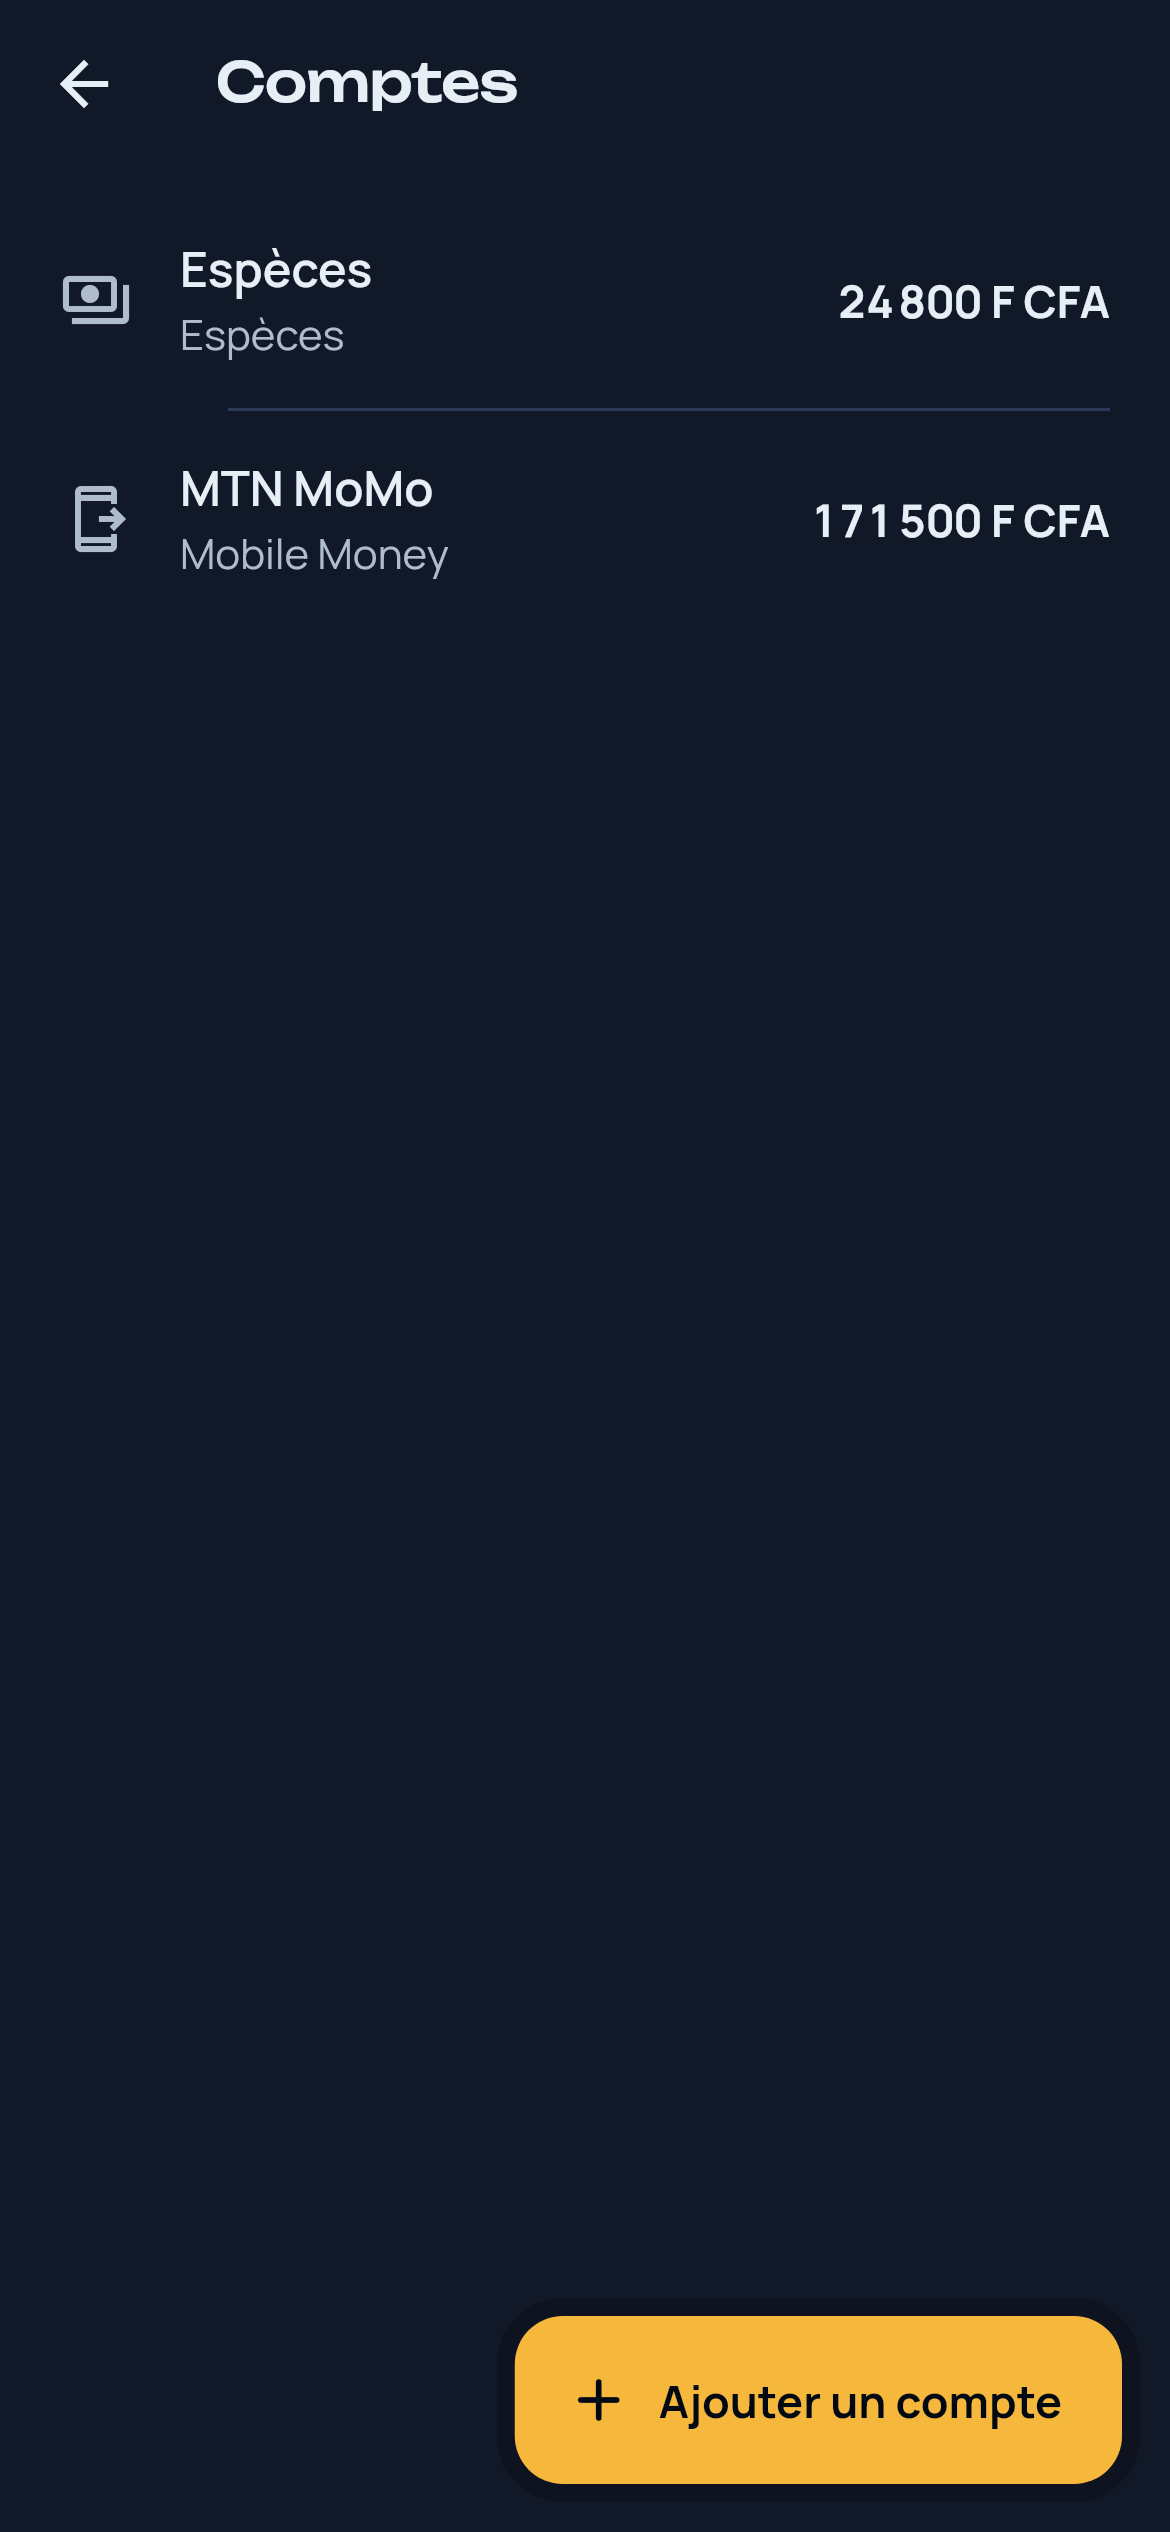
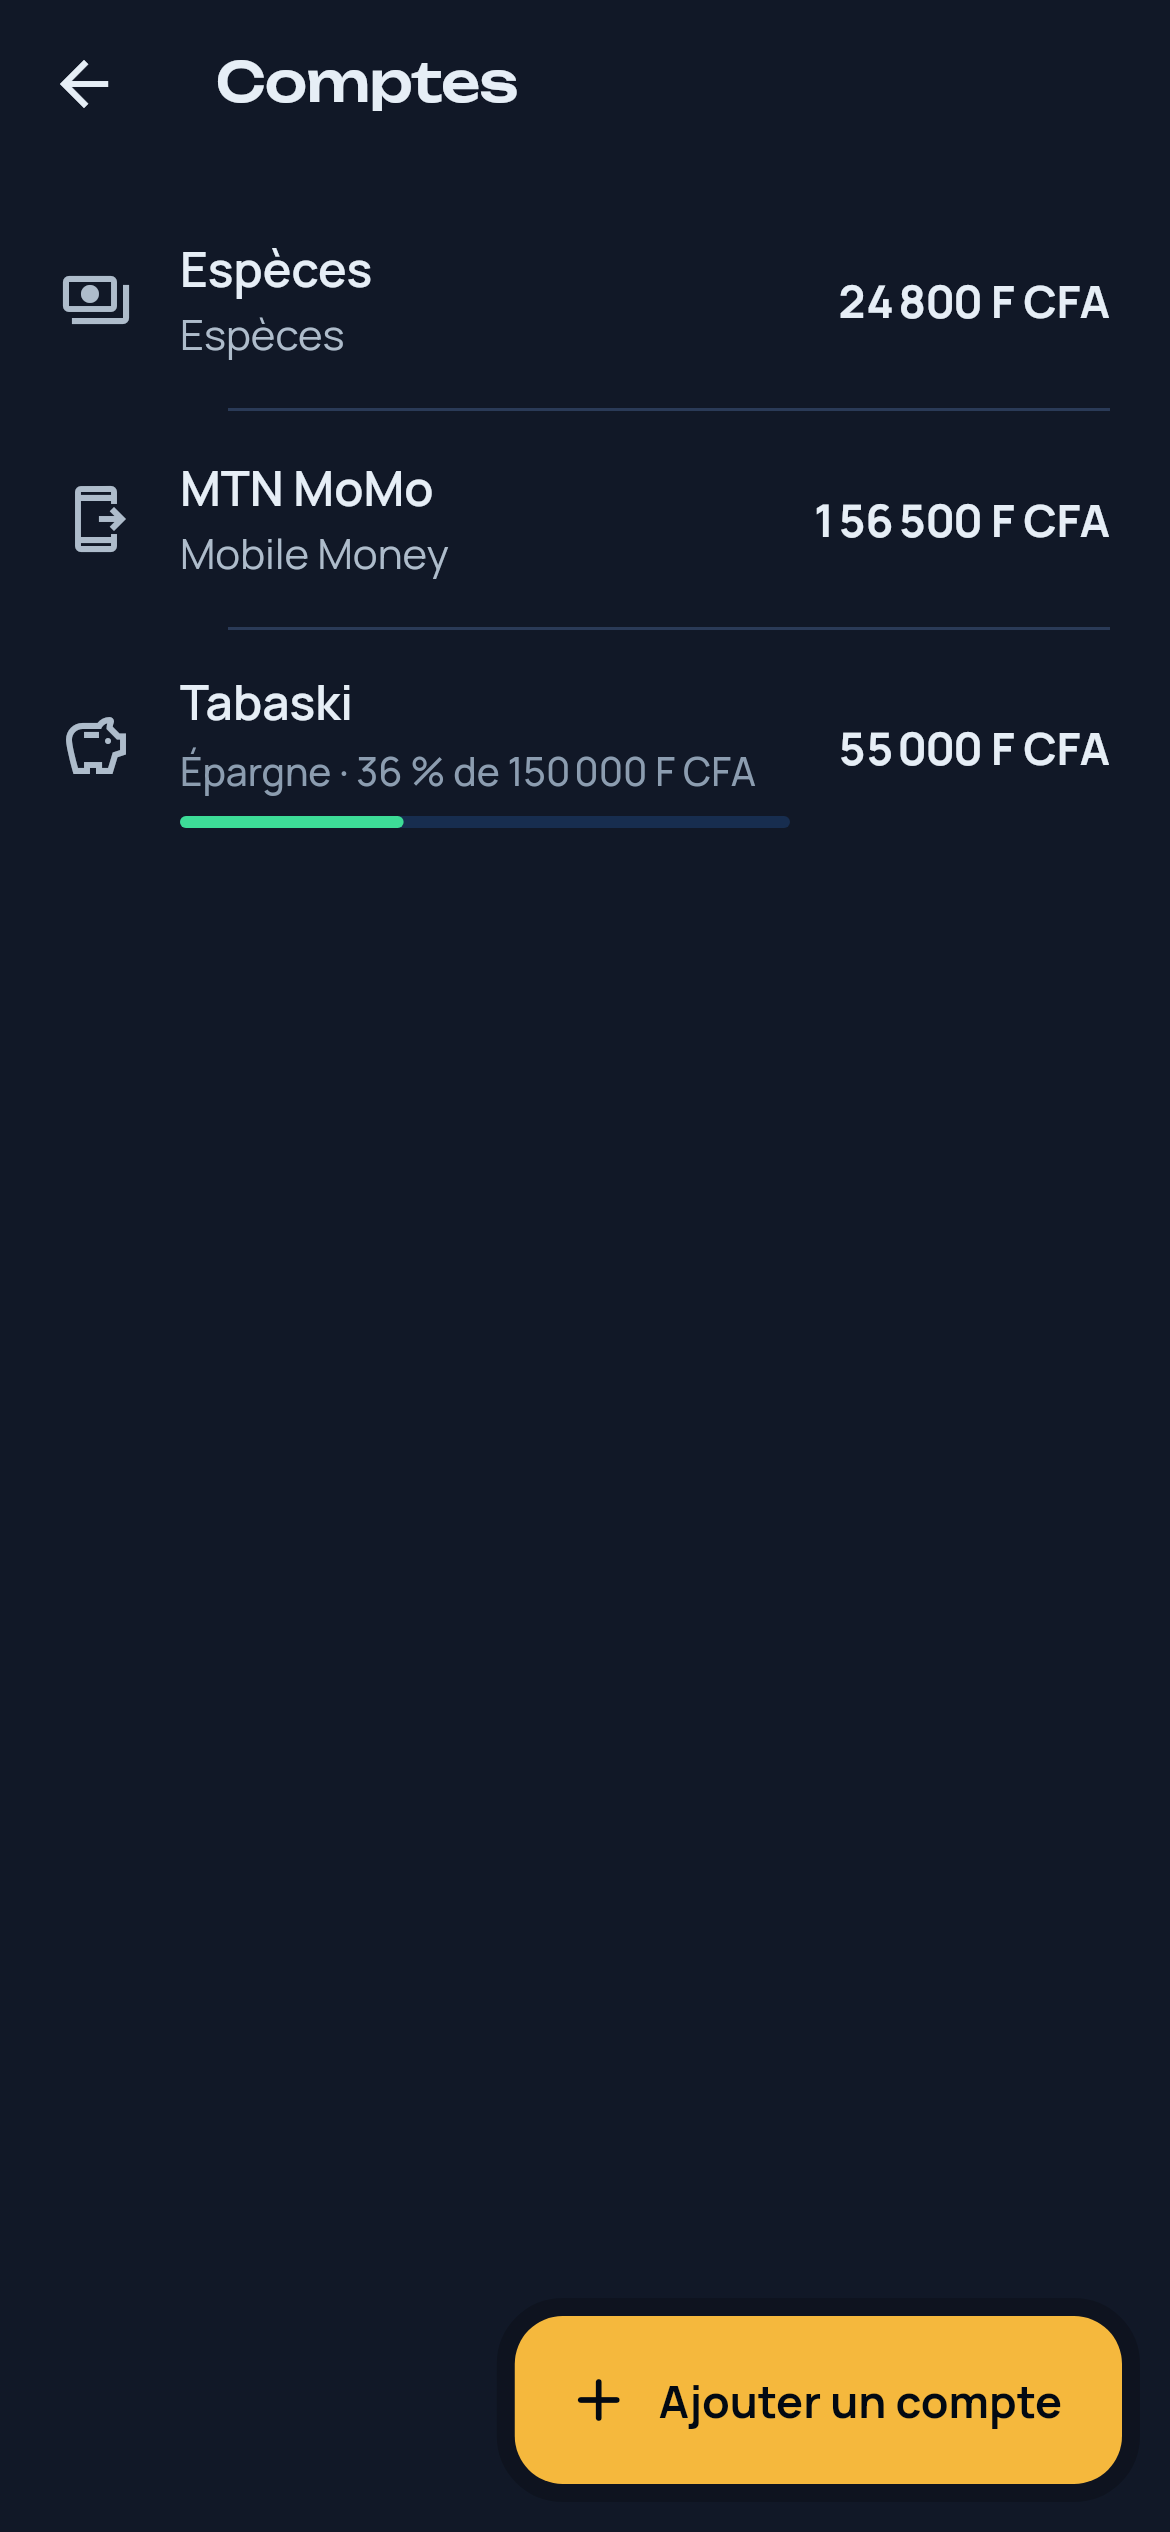
feat(epargne): objectif au formulaire et jauge dans la liste des comptes
Le champ Objectif n'apparaît que pour le type Épargne, avec le rappel
qu'on y verse par « Entre comptes ». Dans la liste, la jauge est verte
du début à la fin : s'approcher du but n'est pas une alerte, à la
différence d'un plafond. Les types passent sur deux lignes, sinon
« Épargne » restait caché hors de l'écran. Captures 09 à 11 refaites
avec une épargne dans le mois fictif de Kofi.

diff --git a/lib/features/expenses/ui/accounts_screen.dart b/lib/features/expenses/ui/accounts_screen.dart
@@ -11,6 +11,7 @@ import '../../../app/routes.dart';
 import '../../../app/theme/palier_theme.dart';
 import '../../../app/theme/palier_tokens.dart';
 import '../../../l10n/app_localizations.dart';
+import '../../profiles/domain/profile.dart';
 import '../data/expenses_repository.dart';
 import '../domain/expense_kinds.dart';
 import '../domain/expenses.dart';
@@ -49,7 +50,9 @@ class AccountsScreen extends ConsumerWidget {
                   contentPadding: EdgeInsets.zero,
                   leading: Icon(accountIcon(account.kind)),
                   title: Text(account.name),
-                  subtitle: Text(l10n.accountKindName(account.kind)),
+                  subtitle: account.goal == null
+                      ? Text(l10n.accountKindName(account.kind))
+                      : SavingsGoal(account: account, currency: currency),
                   trailing: LucidPrivateText(
                     formatBalance(account.balance, currency),
                     mask: maskedMoney(currency),
@@ -90,6 +93,7 @@ class _AccountFormScreenState extends ConsumerState<AccountFormScreen> {
   final _formKey = GlobalKey<FormState>();
   final _name = TextEditingController();
   final _opening = TextEditingController();
+  final _goal = TextEditingController();
   AccountKind _kind = AccountKind.mobileMoney;
   bool _saving = false;
   bool _filled = false;
@@ -100,6 +104,7 @@ class _AccountFormScreenState extends ConsumerState<AccountFormScreen> {
   void dispose() {
     _name.dispose();
     _opening.dispose();
+    _goal.dispose();
     super.dispose();
   }
 
@@ -111,6 +116,8 @@ class _AccountFormScreenState extends ConsumerState<AccountFormScreen> {
     _name.text = account.name;
     _kind = account.kind;
     _opening.text = account.openingBalance == 0 ? '' : formatMoney(account.openingBalance, currency, withSymbol: false);
+    final goal = account.goal;
+    _goal.text = goal == null ? '' : formatMoney(goal, currency, withSymbol: false);
   }
 
   Future<void> _save(Account? existing) async {
@@ -122,6 +129,11 @@ class _AccountFormScreenState extends ConsumerState<AccountFormScreen> {
       name: _name.text,
       kind: _kind,
       openingBalance: parseMoney(_opening.text, profile.currency)!,
+      // Champ vide : la conversion donne 0, soit « pas d'objectif ».
+      goal: switch (parseMoney(_goal.text, profile.currency)) {
+        final amount? when amount > 0 => amount,
+        _ => null,
+      },
     );
     final repo = ref.read(expensesRepositoryProvider);
 
@@ -211,7 +223,11 @@ class _AccountFormScreenState extends ConsumerState<AccountFormScreen> {
                       validator: (value) => (value?.trim() ?? '').isEmpty ? l10n.accountNameRequired : null,
                     ),
                     FieldLabel(l10n.accountKindLabel),
-                    PillRow(
+                    // Sur deux lignes plutôt qu'en rangée qui défile : les quatre
+                    // types restent visibles, « Épargne » compris.
+                    Wrap(
+                      spacing: PalierSpace.sm,
+                      runSpacing: PalierSpace.sm,
                       children: [
                         for (final kind in AccountKind.values)
                           ChoicePill(
@@ -232,6 +248,23 @@ class _AccountFormScreenState extends ConsumerState<AccountFormScreen> {
                       validator: (value) =>
                           parseMoney(value ?? '', currency) == null ? l10n.accountOpeningInvalid : null,
                     ),
+                    if (_kind == AccountKind.savings) ...[
+                      const SizedBox(height: PalierSpace.md),
+                      LucidTextField(
+                        key: const ValueKey('objectif'),
+                        controller: _goal,
+                        label: '${l10n.accountGoalLabel} (${currency.symbol})',
+                        keyboardType: TextInputType.numberWithOptions(decimal: currency.decimals > 0),
+                        textInputAction: TextInputAction.done,
+                        helperText: l10n.accountGoalHelp,
+                        validator: (value) {
+                          final text = value?.trim() ?? '';
+                          if (text.isEmpty) return null;
+                          final amount = parseMoney(text, currency);
+                          return amount == null || amount <= 0 ? l10n.accountGoalInvalid : null;
+                        },
+                      ),
+                    ],
                     const SizedBox(height: PalierSpace.xl),
                     LucidButton(
                       label: l10n.accountSave,
@@ -252,6 +285,58 @@ class _AccountFormScreenState extends ConsumerState<AccountFormScreen> {
                 ),
               ),
             ),
+    );
+  }
+}
+
+/// Sous le nom d'un compte d'épargne : où en est son objectif, en pourcentage
+/// et en jauge. Vert, puisque s'approcher du but est une bonne nouvelle : pas
+/// d'ambre ni de rouge comme pour un plafond, et le dépasser reste du vert.
+class SavingsGoal extends StatelessWidget {
+  const SavingsGoal({super.key, required this.account, required this.currency});
+
+  final Account account;
+  final PalierCurrency currency;
+
+  @override
+  Widget build(BuildContext context) {
+    final l10n = AppLocalizations.of(context);
+    final goal = account.goal!;
+    final saved = account.balance < 0 ? 0 : account.balance;
+    final reached = saved >= goal;
+    final percent = (account.goalProgress! * 100).floor();
+    final style = manrope(
+      size: 13,
+      weight: FontWeight.w500,
+      color: reached ? PalierColors.success : PalierColors.textLow,
+    );
+    final kind = l10n.accountKindName(account.kind);
+
+    return Padding(
+      padding: const EdgeInsets.only(top: 2),
+      child: Column(
+        crossAxisAlignment: CrossAxisAlignment.stretch,
+        children: [
+          LucidPrivateText(
+            '$kind · ${reached ? l10n.accountGoalReached(formatMoney(goal, currency)) : l10n.accountGoalProgress(percent, formatMoney(goal, currency))}',
+            mask:
+                '$kind · ${reached ? l10n.accountGoalReached(maskedMoney(currency)) : l10n.accountGoalProgress(percent, maskedMoney(currency))}',
+            style: style,
+          ),
+          const SizedBox(height: PalierSpace.xs + 2),
+          LucidMeter(
+            value: saved,
+            max: goal,
+            color: PalierColors.success,
+            warningColor: PalierColors.success,
+            overColor: PalierColors.success,
+            trackColor: PalierColors.indigo,
+            height: 4,
+            semanticLabel: l10n.accountGoalLabel,
+            semanticValue: l10n.accountGoalProgress(percent, formatMoney(goal, currency)),
+          ),
+        ],
+      ),
     );
   }
 }

diff --git a/test/widget/expenses_flow_test.dart b/test/widget/expenses_flow_test.dart
@@ -1,7 +1,7 @@
 import 'package:flutter/material.dart';
 import 'package:flutter/rendering.dart';
 import 'package:flutter_test/flutter_test.dart';
-import 'package:lucid_core_flutter/lucid_core_flutter.dart' show LucidSnack;
+import 'package:lucid_core_flutter/lucid_core_flutter.dart' show LucidMeter, LucidSnack;
 import 'package:palier/app/providers.dart';
 import 'package:palier/app/theme/palier_tokens.dart';
 import 'package:palier/features/expenses/domain/expense_kinds.dart';
@@ -286,5 +286,37 @@ void main() {
     expect(find.text('Mouvement enregistré.'), findsOneWidget);
     expect(find.text('Espèces → MTN MoMo'), findsOneWidget);
     expect(find.text(formatMoney(10000, _xof)), findsWidgets, reason: 'solde du compte MoMo');
+  });
+
+  testWidgets('un compte d’épargne a un objectif facultatif, suivi par une jauge dans la liste', (tester) async {
+    final app = await _openExpenses(tester);
+    await tester.tap(find.byTooltip('Gérer les dépenses'));
+    await app.settle(tester);
+    await tester.tap(find.text('Comptes').last);
+    await app.settle(tester);
+    await tester.tap(find.text('Ajouter un compte'));
+    await app.settle(tester);
+
+    final goalField = find.byKey(const ValueKey('objectif'));
+    expect(goalField, findsNothing, reason: 'pas d’objectif pour un compte courant');
+    await tester.enterText(find.byType(TextFormField).first, 'Tabaski');
+    await tester.ensureVisible(find.text('Épargne'));
+    await tester.tap(find.text('Épargne'));
+    await app.settle(tester);
+    expect(goalField, findsOneWidget);
+    expect(find.textContaining('note un « Entre comptes » vers ce compte'), findsOneWidget);
+
+    await tester.enterText(find.descendant(of: goalField, matching: find.byType(TextFormField)), '0');
+    await tester.tap(find.text('Enregistrer'));
+    await app.settle(tester);
+    expect(find.text('Indique un montant supérieur à zéro, ou laisse vide.'), findsOneWidget);
+
+    await tester.enterText(find.descendant(of: goalField, matching: find.byType(TextFormField)), '100000');
+    await tester.tap(find.text('Enregistrer'));
+    await app.settle(tester);
+
+    expect(find.text('Épargne · 0 % de ${formatMoney(100000, _xof)}'), findsOneWidget);
+    expect(find.byType(LucidMeter), findsOneWidget);
+    expect(find.text('Espèces'), findsWidgets, reason: 'le compte Espèces garde son type seul, sans jauge');
   });
 }

diff --git a/test/captures/captures_test.dart b/test/captures/captures_test.dart
@@ -156,7 +156,7 @@ void main() {
   });
 }
 
-/// Un mois fictif de Kofi : deux comptes, un salaire, quelques dépenses, un
+/// Un mois fictif de Kofi : deux comptes et une épargne, un salaire, quelques dépenses, un
 /// virement, trois plafonds, et ce qui revient (salaire, loyer, abonnement).
 Future<void> _kofiMonth(TestApp app) async {
   // Tout est créé le 1er du mois : la date réelle du jour ne change rien aux captures.
@@ -168,6 +168,10 @@ Future<void> _kofiMonth(TestApp app) async {
   final momo = await repo.createAccount(
     kofi,
     const AccountDraft(name: 'MTN MoMo', kind: AccountKind.mobileMoney, openingBalance: 42500),
+  );
+  final tabaski = await repo.createAccount(
+    kofi,
+    const AccountDraft(name: 'Tabaski', kind: AccountKind.savings, openingBalance: 40000, goal: 150000),
   );
   final categories = {for (final c in await repo.watchCategories(kofi).first) c.name: c.id};
   final now = _day;
@@ -199,6 +203,7 @@ Future<void> _kofiMonth(TestApp app) async {
   final monthly = LucidRecurrence(unit: LucidRecurrenceUnit.month, start: now);
   await add(OperationKind.income, 150000, momo.id, at(1, 9), category: 'Salaire', repeat: monthly);
   await add(OperationKind.transfer, 20000, momo.id, at(1, 12), to: cash.id, note: 'retrait');
+  await add(OperationKind.transfer, 15000, momo.id, at(1, 13), to: tabaski.id, note: 'épargne');
   await add(OperationKind.expense, 12500, cash.id, at(1, 18), category: 'Alimentation', note: 'marché');
   await add(OperationKind.expense, 1000, momo.id, at(0, 8), category: 'Crédit et data');
   await add(OperationKind.expense, 700, cash.id, at(0, 9), category: 'Transport', note: 'zem');
